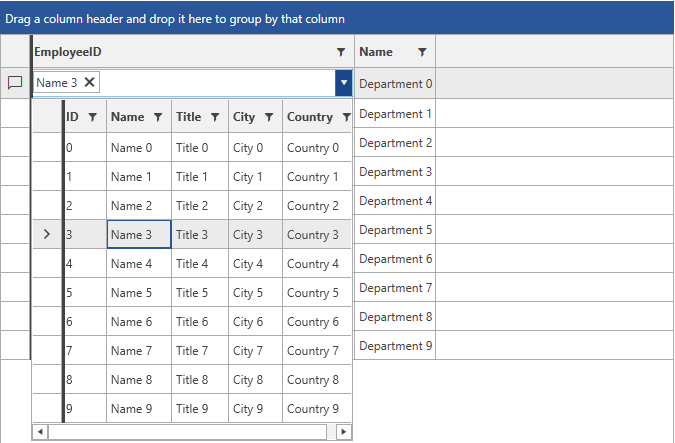
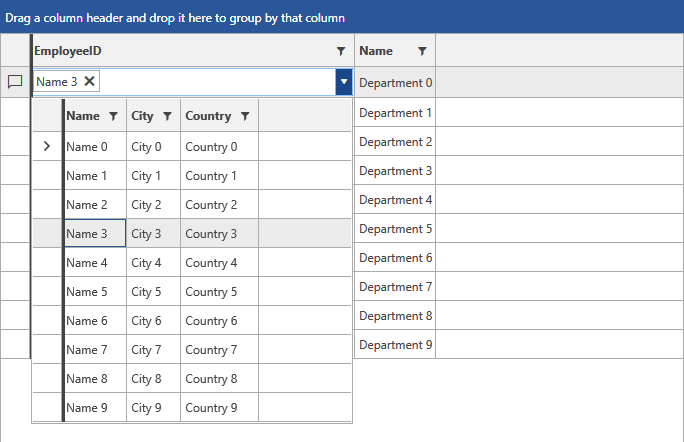
Document the AutogenerateColumns and Columns properties

Changed region(s): [[0.0, 0.0, 1.0, 1.0]]

diff --git a/controls/radgridview/columns/columntypes/column-types-multicolumncomboboxcolumn.md b/controls/radgridview/columns/columntypes/column-types-multicolumncomboboxcolumn.md
@@ -50,6 +50,10 @@ __GridViewMultiColumnComboBoxColumn__ derives from [GridViewBoundColumnBase]({%s
 
 * __CloseDropDownAfterSelectionInput__: Get or sets the [CloseDropDownAfterSelectionInput]({%slug multicolumncombobox-dropdown-properties%}#closing-the-dropdown-when-selecting) of the __RadMultiColumnComboBox__ editor.
 
+* __AutoGenerateColumns__: Gets or sets a value indicating whether columns in the editor's popup are created automatically when the ItemsSource property is set. The default value is **true**. This property was introduced with **R1 2020 SP1**.
+
+* __Columns__: Gets the collection of GridViewColumns for the grid view in the editor's popup. This property was introduced with **R1 2020 SP1**.
+
 ## Setting up GridViewMultiColumnComboBoxColumn
 
 __Examples 1 and 2__ demonstrate how you can define some dummy data and set up a GridViewMultiColumnComboBoxColumn. The RadGridView is populated with a collection of Departments, each of which holds a collection of Employees. The Employees collection is set as the ItemsSource of the GridViewMultiColumnComboBoxColumn.
@@ -171,18 +175,22 @@ __Examples 1 and 2__ demonstrate how you can define some dummy data and set up a
 
 #### __[XAML] Example 2: Defining the xaml__
 {{region xaml-radmulticolumncombobox-dropdown-properties-2}}
-    <Window.Resources>
-		<my:MyViewModel x:Key="MyViewModel"/>
-	</Window.Resources>
-    <Grid DataContext="{StaticResource MyViewModel}">
-        <telerik:RadGridView Grid.Row="0" 
-                             Name="DepartmentsGrid" 
-                             ItemsSource="{Binding Departments}"
-                             AutoGenerateColumns="False"
-                             GroupRenderMode="Flat"
-                             Margin="5">
+	<Window.DataContext>
+		<my:MyViewModel />
+	</Window.DataContext>
+    <Grid>
+        <telerik:RadGridView Name="DepartmentsGrid"  
+                         ItemsSource="{Binding Departments}" 
+                         AutoGenerateColumns="False" 
+                         GroupRenderMode="Flat">
             <telerik:RadGridView.Columns>
-                <telerik:GridViewMultiColumnComboBoxColumn DataMemberBinding="{Binding EmployeeID}" ItemsSourceBinding="{Binding Employees}" DisplayMemberPath="Name" SelectedValuePath="ID" Width="325" />
+                <telerik:GridViewMultiColumnComboBoxColumn AutoGenerateColumns="False" DataMemberBinding="{Binding EmployeeID}" ItemsSourceBinding="{Binding Employees}" DisplayMemberPath="Name" SelectedValuePath="ID" Width="325">
+                    <telerik:GridViewMultiColumnComboBoxColumn.Columns>
+                        <telerik:GridViewDataColumn DataMemberBinding="{Binding Name}" />
+                        <telerik:GridViewDataColumn DataMemberBinding="{Binding City}" />
+                        <telerik:GridViewDataColumn DataMemberBinding="{Binding Country}" />
+                    </telerik:GridViewMultiColumnComboBoxColumn.Columns>
+                </telerik:GridViewMultiColumnComboBoxColumn>
                 <telerik:GridViewDataColumn DataMemberBinding="{Binding Name}" />
             </telerik:RadGridView.Columns>
         </telerik:RadGridView>
@@ -194,4 +202,6 @@ __Examples 1 and 2__ demonstrate how you can define some dummy data and set up a
 
 ## See Also
 
-* [GridViewComboBoxColumn]({%slug radgridview-columns-column-types-combobox-column%})
+* [ComboBox Column]({%slug radgridview-columns-column-types-combobox-column%})
+* [Toggle RowDetails Column]({%slug radgridview-columns-column-types-toggle-rowdetails-column%})
+* [Select Column]({%slug radgridview-columns-column-types-select-column%})
